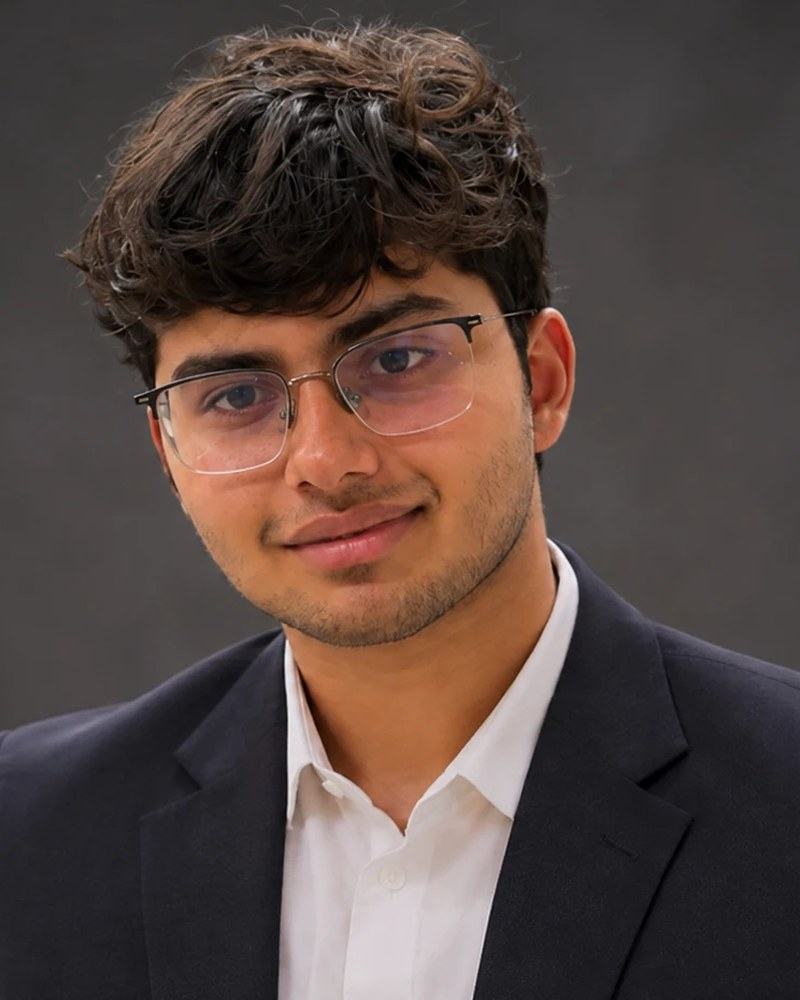
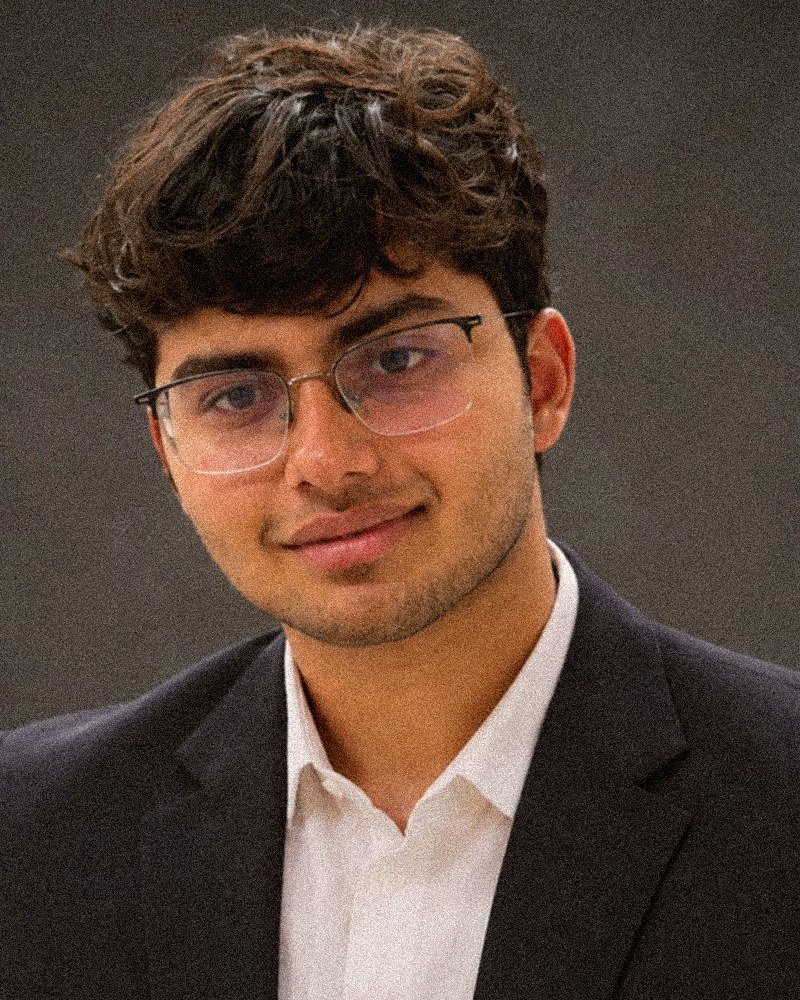
feat: BRAINBOTS footer wordmark, drop the visible template credit, film finish on the headshot

Changed region(s): [[0.0, 0.0, 1.0, 1.0]]

diff --git a/index.html b/index.html
@@ -547,8 +547,8 @@ textarea.m-field__control { min-height: 110px; resize: vertical; }
 #footer .footer__cols { display: grid; gap: 28px; }
 #footer .footer__brand { display: grid; gap: 10px; max-width: 24em; }
 #footer .footer__nav ul { display: grid; gap: 6px; justify-items: start; }
-#footer .footer__press { position: relative; overflow: hidden; margin: 0 -8px; }
-#footer .footer__word { --footer-rake: 1; --footer-depth: 1; position: relative; z-index: 1; display: block; padding: 0 2%; color: var(--color-6); font-family: var(--font-2); font-size: clamp(96px, 24vw, 250px); font-weight: 400; line-height: 1.12; white-space: nowrap; user-select: none; text-shadow: calc(var(--footer-rake) * var(--footer-depth) * -1px) calc(var(--footer-depth) * -1px) calc(var(--footer-depth) * .6px) color-mix(in srgb, var(--color-2) 26%, transparent), calc(var(--footer-rake) * var(--footer-depth) * 1.2px) calc(var(--footer-depth) * 1.4px) calc(var(--footer-depth) * 1px) var(--color-1); }
+#footer .footer__press { position: relative; overflow: hidden; margin: 0 -8px; padding: 10px 0 6px; }
+#footer .footer__word { --footer-rake: 1; --footer-depth: 1; position: relative; z-index: 1; display: block; padding: .08em 1% 0; color: color-mix(in srgb, var(--color-3) 36%, var(--color-1)); font-family: var(--font-1); font-size: clamp(52px, 15.4vw, 150px); font-weight: 800; line-height: 1; letter-spacing: -.045em; text-transform: uppercase; text-align: center; white-space: nowrap; user-select: none; text-shadow: calc(var(--footer-rake) * var(--footer-depth) * -1px) calc(var(--footer-depth) * -1px) calc(var(--footer-depth) * .6px) color-mix(in srgb, var(--color-2) 26%, transparent), calc(var(--footer-rake) * var(--footer-depth) * 1.2px) calc(var(--footer-depth) * 1.4px) calc(var(--footer-depth) * 1px) var(--color-1); }
 #footer .footer__light { position: absolute; top: -10%; bottom: -10%; left: 0; width: 46%; z-index: 0; background: radial-gradient(closest-side, color-mix(in srgb, var(--color-2) 16%, transparent), transparent); pointer-events: none; transform: translateX(110%); }
 #footer .footer__small { display: flex; flex-wrap: wrap; justify-content: space-between; gap: 8px 20px; }
 @media (min-width: 900px) {
@@ -1062,7 +1062,7 @@ if (matchMedia('(prefers-reduced-motion: no-preference)').matches && CSS.support
     </div>
   </section>
 </main>
-<!-- footer: name and note, two link columns, a huge pressed word and the copyright line with the Design: 8B credit (animation: scene:footer-press) -->
+<!-- footer: name and note, two link columns, a huge pressed BRAINBOTS wordmark and the copyright line (animation: scene:footer-press) -->
 <footer id="footer" data-8b-section="footer">
   <div class="footer__inner l-sheet">
     <div class="footer__cols">
@@ -1088,10 +1088,10 @@ if (matchMedia('(prefers-reduced-motion: no-preference)').matches && CSS.support
       </nav>
     </div>
     <div class="footer__press" aria-hidden="true">
-      <span class="footer__word">Spark</span>
+      <span class="footer__word">BrainBots</span>
       <span class="footer__light"></span>
     </div>
-    <p class="footer__small m-text-3"><span>&copy; 2026 BrainBots Academy, Indore · Design: <a href="https://8b.com/" style="color:inherit" data-8b-credit>8B</a></span><span><a href="https://www.instagram.com/brainbotsacademyy/" style="color:inherit">@brainbotsacademyy</a></span></p>
+    <p class="footer__small m-text-3"><span>&copy; 2026 BrainBots Academy, Indore</span><span><a href="https://www.instagram.com/brainbotsacademyy/" style="color:inherit">@brainbotsacademyy</a></span></p>
   </div>
 </footer>
 

diff --git a/AGENTS.md b/AGENTS.md
@@ -6,7 +6,7 @@ One-page site for BrainBots Academy (student-led non-profit, Indore) built on th
 - Every `id`, `data-8b-section`, `data-8b-motion`, `data-8b-part`, `data-8b-items`, `data-8b-fixed` and `data-8b-enter` attribute: the CSS scroll scenes and the inline motion kit read them.
 - Fixed counts: fifteen entries in the learning tree (`#case`, client first then two children per entry), four steps in `#method`, two cards in `#people` (their start offsets are inline variables that make the two stamps begin as one joined block).
 - Selectors the scripts use: `.tabs__tab`, `.case__chart`, `.case__person`, `.case__dot`, `.letters__track`, `.contact__form`, `.contact__status`, `.contact__copy`, `.archives__frame`, `.archives__ledger`, `.archives__name`, `.method__slips`, `.fees__body`, `.fees__item`, `.fees__name`, `.fees__amount`.
-- The header comment, `<meta name="generator">` and the "Design: 8B" footer link (template licence courtesy).
+- The header comment, `<meta name="generator">` and the LICENSE file: that is what the template's MIT licence asks for. The visible "Design: 8B" footer link was removed at the owner's request.
 
 ## Facts on the page (from BrainBots' own documents, not invented)
 - Student-led non-profit, Indore, Madhya Pradesh; co-founded by Dev Hemnani and Arham Sethi (the whole team: two people); teaches students aged 12 to 19; free of charge.
